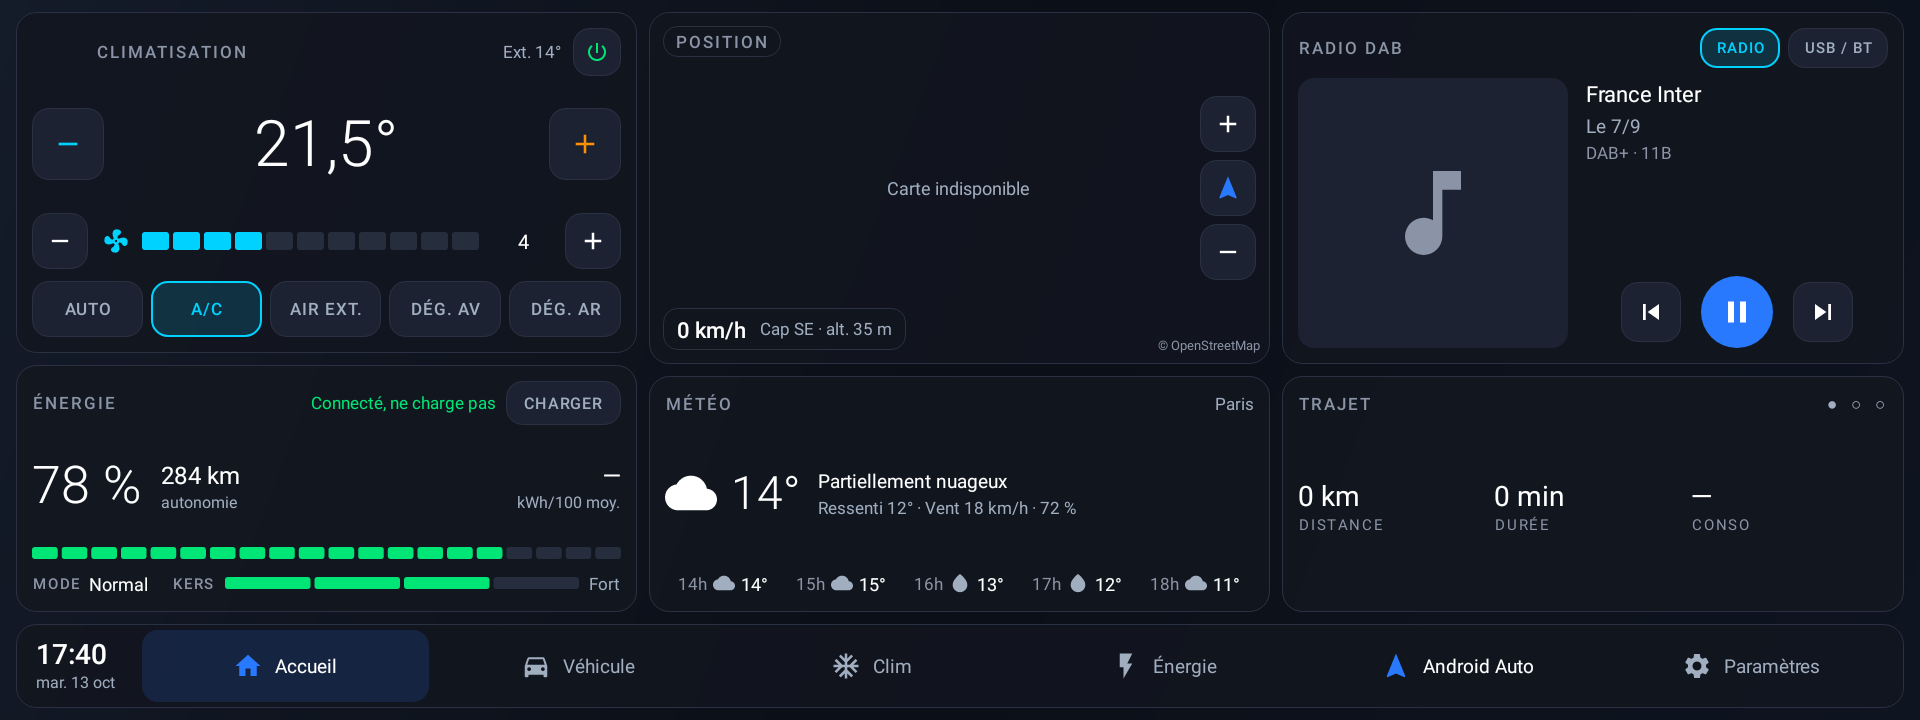
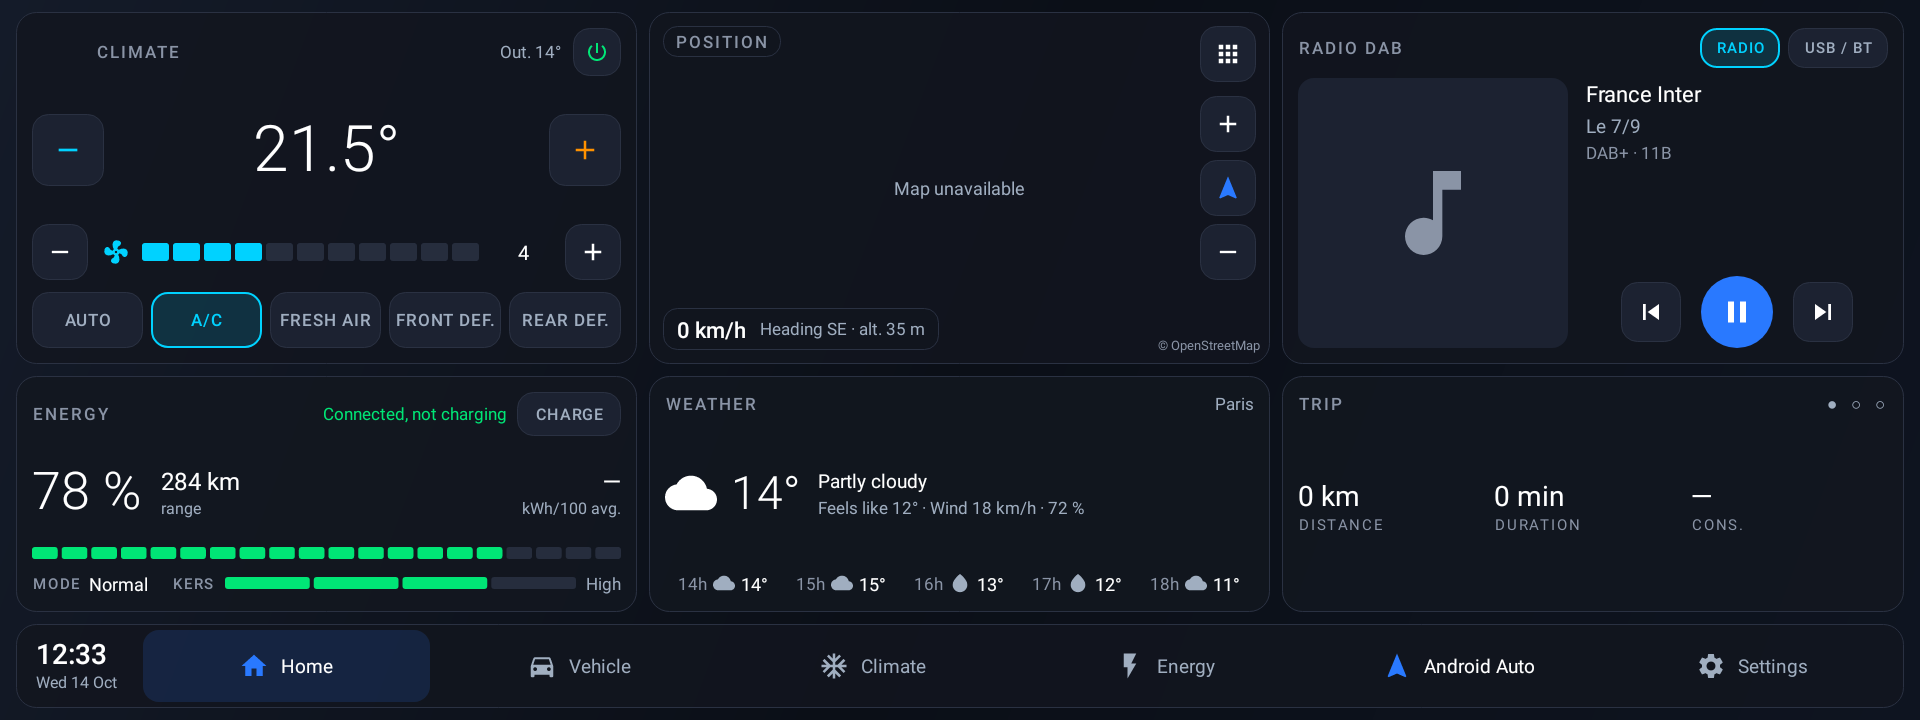
README: refreshed screenshots (English UI), shortcuts and Home Assistant, languages

diff --git a/app/src/testEmulator/java/app/mg4dash/ScreenshotTest.kt b/app/src/testEmulator/java/app/mg4dash/ScreenshotTest.kt
@@ -32,6 +32,20 @@ class ScreenshotTest {
     @Test fun energy() = shoot(app.mg4dash.pages.EnergyActivity::class.java, "energy.png")
     @Test fun settings() = shoot(SettingsActivity::class.java, "settings.png")
 
+    @Test fun homeShortcuts() {
+        val app = org.robolectric.RuntimeEnvironment.getApplication()
+        app.getSharedPreferences("mg4launcher", android.content.Context.MODE_PRIVATE).edit()
+            .putInt("home_widget", 1)
+            .putString("sc_0", "ha|cover.gate|Gate")
+            .putString("sc_1", "ha|cover.garage_door|Garage")
+            .putString("sc_2", "ha|script.driveway_lights|Driveway")
+            .putString("sc_3", "ha|scene.arriving_home|Arriving")
+            .putString("sc_4", "ha|switch.heating|Heating")
+            .putString("sc_5", "ha|automation.alarm|Alarm")
+            .apply()
+        shoot(MainActivity::class.java, "home_shortcuts.png")
+    }
+
     @Test @Config(qualifiers = "fr-w1920dp-h720dp-land-mdpi")
     fun homeShortcutsFr() {
         val app = org.robolectric.RuntimeEnvironment.getApplication()

diff --git a/README.md b/README.md
@@ -2,11 +2,19 @@
 
 Launcher plein écran pour MG4 Standard (firmware SWI69, famille A9), dalle 1920 × 720 : style « dark glass », accueil en 3 colonnes et pages Clim, Énergie et Véhicule reliées par un dock commun.
 
+Langues : anglais (par défaut), français, allemand, espagnol, italien et néerlandais, selon la langue de la voiture.
+
 > Captures rendues sur PC avec des données simulées (la carte OpenStreetMap ne s'affiche que sur la voiture).
 
 ### Accueil
 ![Accueil](docs/screenshots/home.png)
-Clim (température, ventilation, AUTO, A/C, recyclage, dégivrage), énergie (batterie, autonomie, conso estimée, mode, KERS, bouton Charger / Lancer V2L), position du véhicule, météo Open-Meteo, lecteur média (radio DAB, Bluetooth, USB, Android Auto) et widget trajet / statut / météo.
+Clim (température, ventilation, AUTO, A/C, recyclage, dégivrage), énergie (batterie, autonomie, conso estimée, mode, KERS, bouton Charger / Lancer V2L), position du véhicule, météo Open-Meteo, lecteur média qui suit la source audio active de la voiture (radio DAB/FM, Bluetooth, USB, Android Auto) et widget trajet / statut / météo.
+
+Appui long sur le bouton Android Auto du dock : le remplacer par l'appli de son choix.
+
+### Raccourcis et Home Assistant
+![Raccourcis](docs/screenshots/home_shortcuts.png)
+Le bouton en haut à droite de la carte la remplace par 2 pages de 4 × 2 raccourcis : applis ou actions Home Assistant (scripts, automatisations, scènes, boutons, portail, porte de garage…). Toucher une case vide ou appui long pour la modifier. Adresse et jeton Home Assistant dans les paramètres du launcher.
 
 ### Climatisation
 ![Climatisation](docs/screenshots/climate.png)
@@ -22,7 +30,7 @@ Mode de conduite, KERS, aides à la conduite et état du véhicule en lecture se
 
 ### Paramètres du launcher
 ![Paramètres](docs/screenshots/settings.png)
-Écran d'accueil (remplacer l'accueil SAIC / mode Entretien), capacité batterie, ville météo, plein écran et journal intégré.
+Écran d'accueil (remplacer l'accueil SAIC / mode Entretien), capacité batterie, ville météo, démarrage, plein écran, Home Assistant et journal intégré.
 
 ## Arborescence
 
